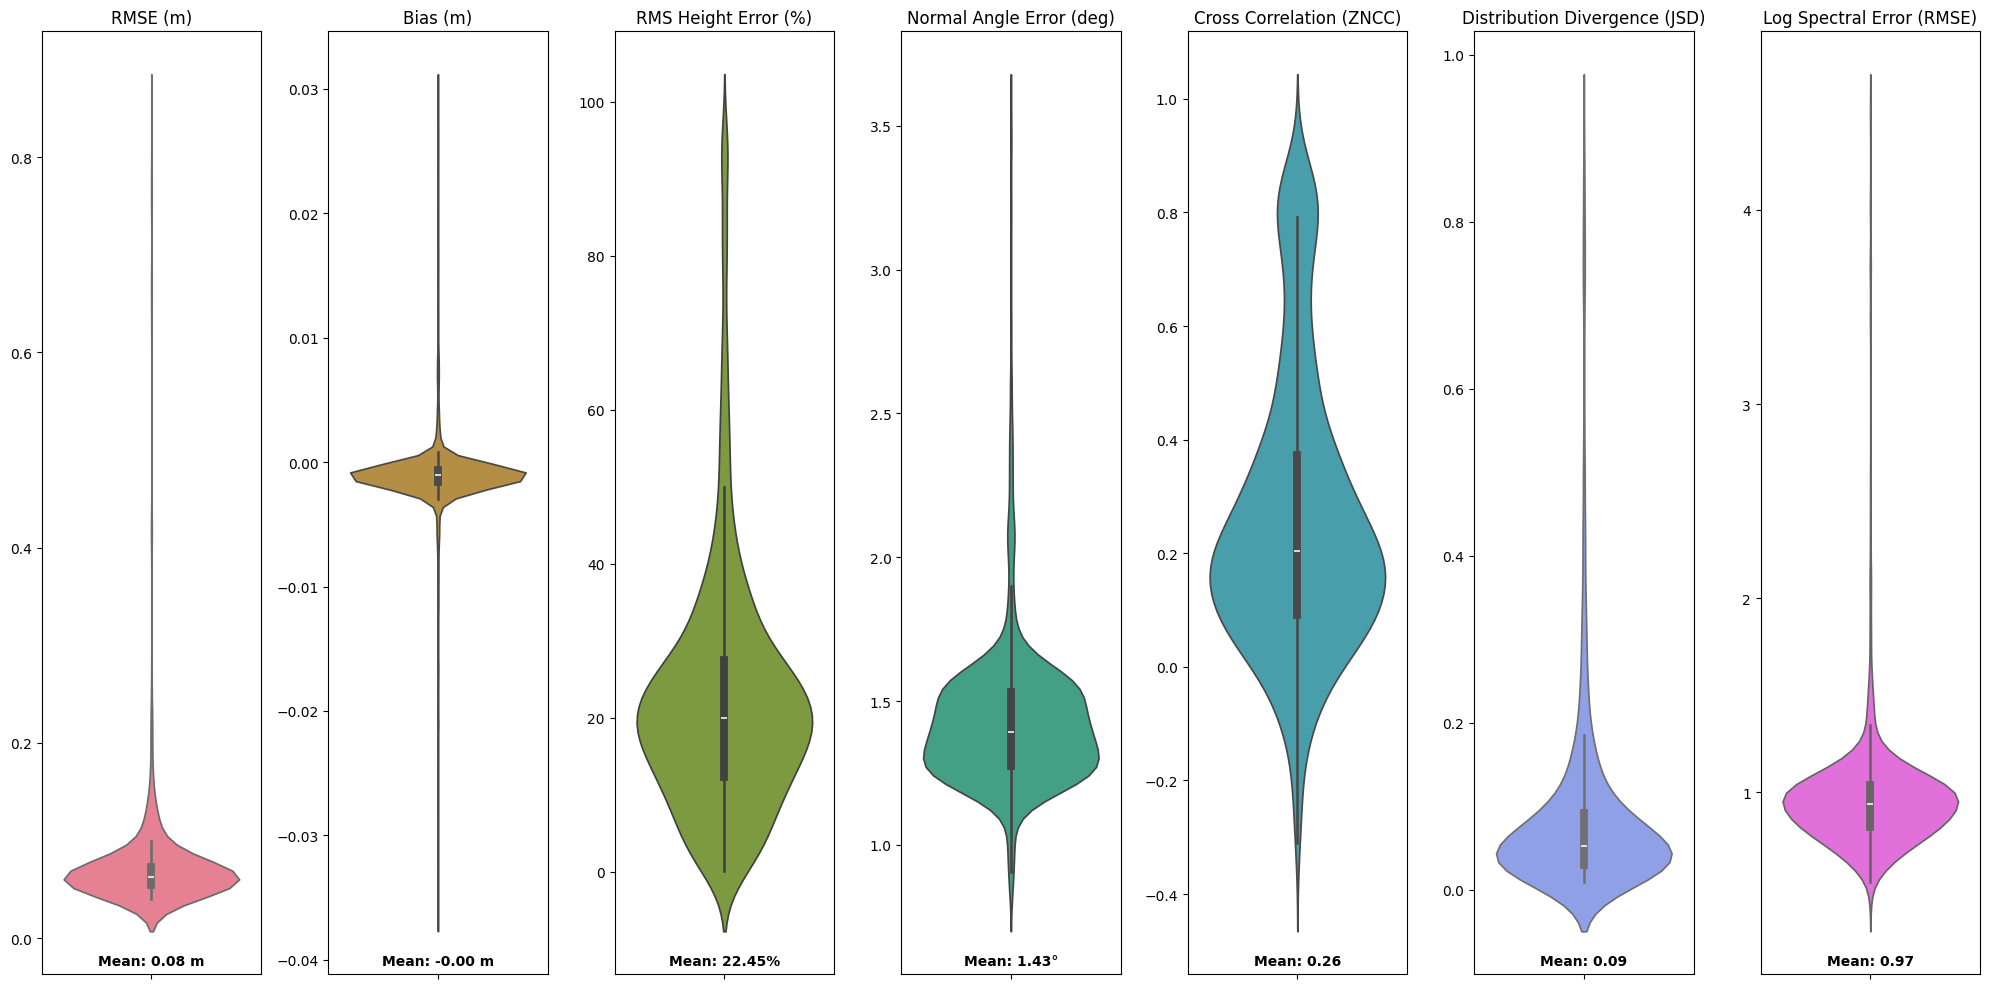
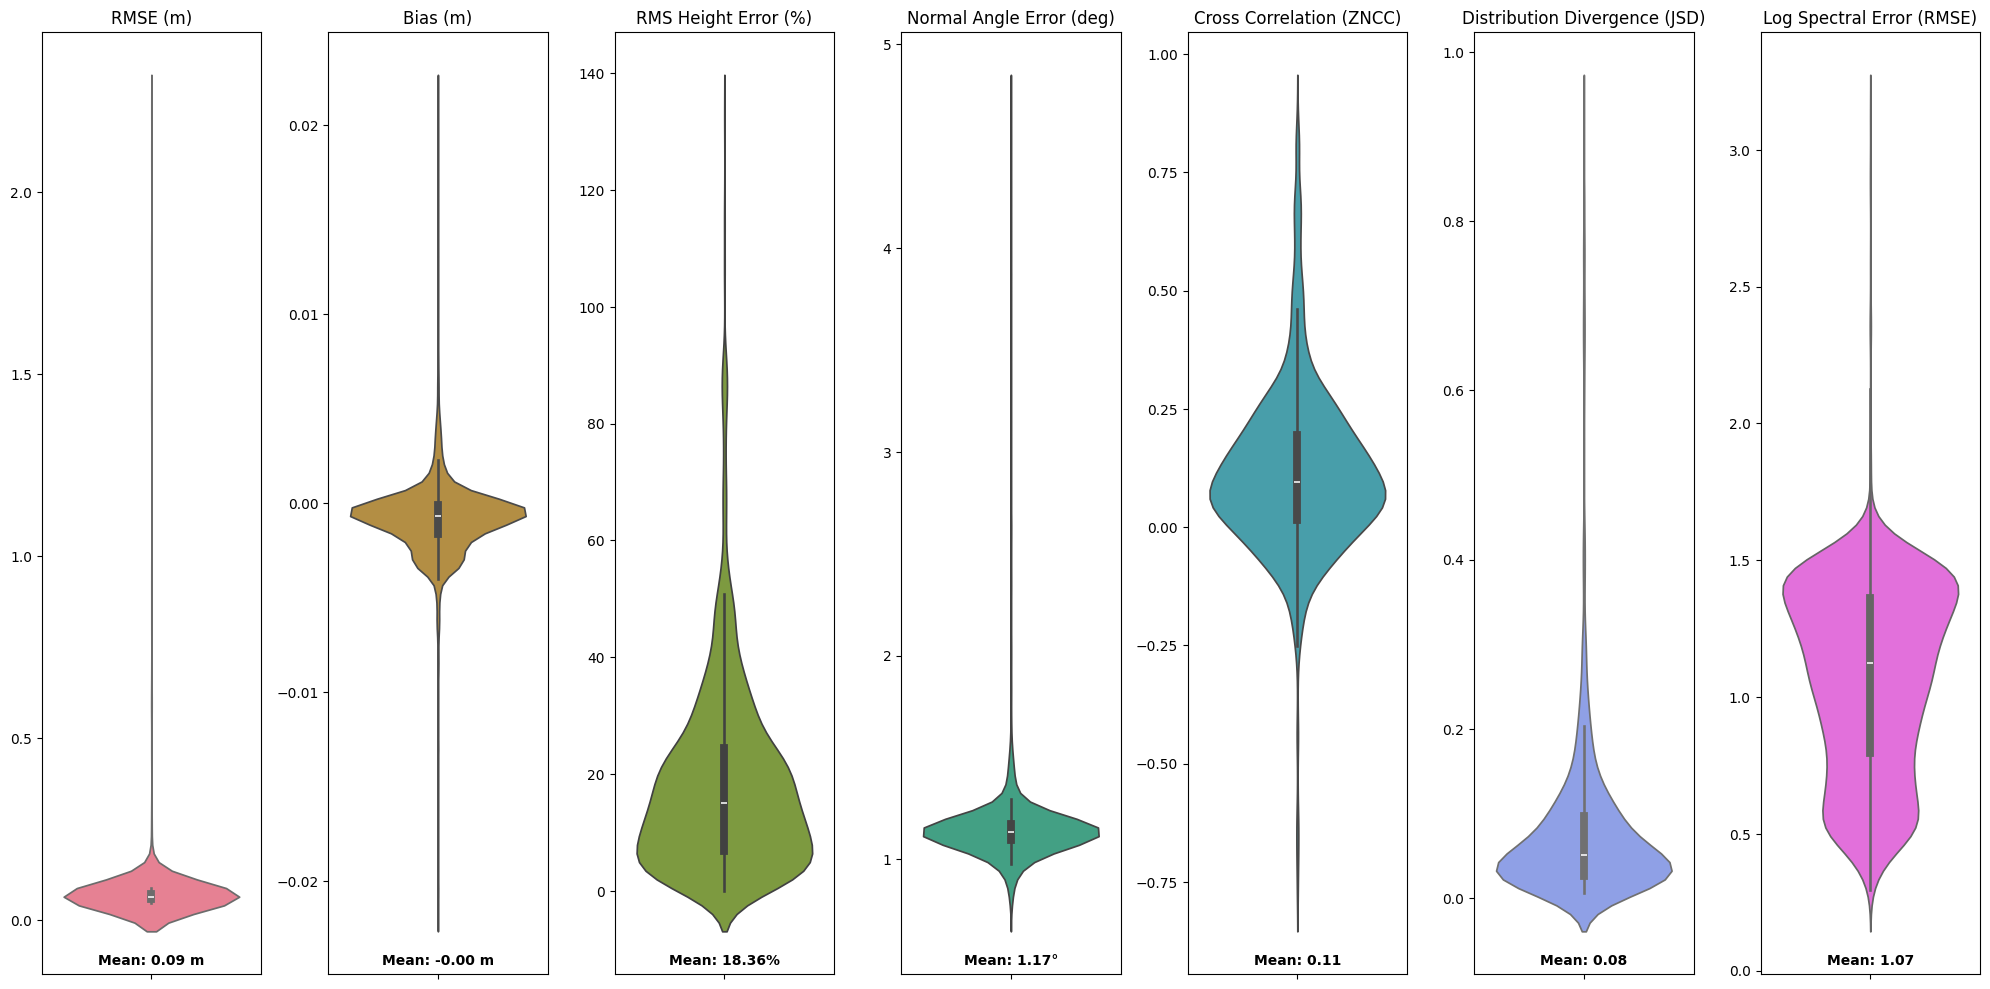
Updated figures (using local demeaning)

diff --git a/scripts/evaluation.py b/scripts/evaluation.py
@@ -10,9 +10,11 @@ from rasterio.warp import reproject
 from tqdm import tqdm
 import yaml
 import matplotlib.pyplot as plt
+import matplotlib.colors as mcolors
 import warnings
 from rasterio.shutil import delete as rio_delete
 from scipy.ndimage import gaussian_filter1d
+from matplotlib.ticker import FormatStrFormatter
 
 PROJECT_ROOT = os.path.abspath(os.path.join(os.path.dirname(__file__), ".."))
 if PROJECT_ROOT not in sys.path:
@@ -59,7 +61,7 @@ def get_region_preset(region_name: str, model_type: str = "cosine"):
         pretty_name = "Pond Inlet"
         zone_ids = [4]
     elif key == "tuk":
-        pretty_name = "Tuktokaktuk"
+        pretty_name = "Tuktoyaktuk"
         zone_ids = [13]
     else:
         pretty_name = "Cambridge Bay"
@@ -359,7 +361,8 @@ def _apply_pred_cleanup(a):
 
 def build_demeaned_mosaics(pred_tiles_dir, gt_tiles_dir, out_dir):
     """
-    Build de-meaned mosaics where each tile is shifted by its GT mean.
+    Build local-reference demeaned mosaics where each GT/pred tile pair is shifted
+    by the ground-truth tile mean.
     Uses a fixed symmetric color scale (-0.5m to +0.5m) with RdBu_r colormap
     for better visualization of surface roughness (after professor's method).
     
@@ -564,10 +567,10 @@ def _rotate_and_crop(arr, angle, mask=None):
 
 def plot_demeaned_color_relief(gt_dm_array, pred_dm_array, diff_dm_array, out_path, vmin=-0.5, vmax=0.5, manual_rotation=None, split_stack=False):
     """
-    Plot demeaned mosaics using fixed symmetric color scale (-0.5 to +0.5m)
-    with RdBu_r colormap (Red=positive/peaks, Blue=negative/depressions, White=zero/mean).
-    
-    This implements the professor's visualization approach for clearer roughness interpretation.
+    Plot residual mosaics using a fixed symmetric color scale and patch-consistent styling.
+
+    Ground truth and prediction are shown in residual space with a shared symmetric
+    log normalization. Error is shown as Pred - GT with a fixed linear scale.
     
     Args:
         gt_dm_array: Demeaned ground truth array
@@ -606,7 +609,22 @@ def plot_demeaned_color_relief(gt_dm_array, pred_dm_array, diff_dm_array, out_pa
         pred_dm_array, _ = _crop_to_valid(pred_dm_array, valid_mask, padding=20)
         diff_dm_array, _ = _crop_to_valid(diff_dm_array, valid_mask, padding=20)
     
-    print(f"  Visualizing demeaned mosaics with fixed scale: {vmin:.2f}m to {vmax:.2f}m (RdBu_r)")
+    # Use symmetric log normalization so values near zero are visually emphasized.
+    dm_abs = float(max(abs(vmin), abs(vmax), 1e-6))
+    dm_vmin, dm_vmax = -dm_abs, dm_abs
+    linthresh_dm = 0.1
+    dm_norm = mcolors.SymLogNorm(
+        linthresh=linthresh_dm,
+        linscale=1.0,
+        vmin=dm_vmin,
+        vmax=dm_vmax,
+    )
+    dm_cmap = "RdBu_r"
+
+    print(
+        f"  Visualizing demeaned mosaics with symlog scale: "
+        f"{dm_vmin:.2f}m to {dm_vmax:.2f}m (linthresh={linthresh_dm:.4f})"
+    )
     
     # Compute aspect ratio
     h, w = gt_dm_array.shape
@@ -635,20 +653,24 @@ def plot_demeaned_color_relief(gt_dm_array, pred_dm_array, diff_dm_array, out_pa
                       hspace=0.02)
         
         groups = [
-            ("Ground Truth (De-meaned)", gt_left, gt_right, "RdBu_r", vmin, vmax, "Residual (m)", 0),
-            ("Prediction (De-meaned)", pred_left, pred_right, "RdBu_r", vmin, vmax, "Residual (m)", 4),
-            ("Error (Pred - GT)", diff_left, diff_right, "seismic", -0.3, +0.3, "Error (m)", 8),
+            ("Ground Truth", gt_left, gt_right, dm_cmap, "Elevation (m)", 0, True),
+            ("Predicted", pred_left, pred_right, dm_cmap, "Elevation (m)", 4, True),
+            ("Error (Pred - GT)", diff_left, diff_right, "seismic", "Error (m)", 8, False),
         ]
-        
-        for title, left_data, right_data, cmap, v0, v1, label, row_start in groups:
+
+        for title, left_data, right_data, cmap, label, row_start, use_symlog in groups:
             ax_top = fig.add_subplot(gs[row_start])
             ax_bot = fig.add_subplot(gs[row_start + 1])
             cax = fig.add_subplot(gs[row_start + 2])
-            
+
             ax_top.set_title(title, fontsize=12, fontweight='bold', pad=10)
-            
-            im_top = ax_top.imshow(left_data, cmap=cmap, vmin=v0, vmax=v1, aspect='equal')
-            im_bot = ax_bot.imshow(right_data, cmap=cmap, vmin=v0, vmax=v1, aspect='equal')
+
+            if use_symlog:
+                im_top = ax_top.imshow(left_data, cmap=cmap, norm=dm_norm, aspect='equal')
+                im_bot = ax_bot.imshow(right_data, cmap=cmap, norm=dm_norm, aspect='equal')
+            else:
+                im_top = ax_top.imshow(left_data, cmap=cmap, vmin=-dm_abs, vmax=dm_abs, aspect='equal')
+                im_bot = ax_bot.imshow(right_data, cmap=cmap, vmin=-dm_abs, vmax=dm_abs, aspect='equal')
             
             ax_top.axis("off")
             ax_bot.axis("off")
@@ -656,6 +678,15 @@ def plot_demeaned_color_relief(gt_dm_array, pred_dm_array, diff_dm_array, out_pa
             cbar = fig.colorbar(im_top, cax=cax, orientation="horizontal")
             cbar.set_label(label, fontsize=10)
             cbar.ax.tick_params(labelsize=8)
+
+            if use_symlog:
+                cbar.set_ticks([-dm_abs, -0.1, -0.01, 0.0, 0.01, 0.1, dm_abs])
+                cbar.formatter = FormatStrFormatter('%.2f')
+            else:
+                cbar.set_ticks([-dm_abs, -0.1, 0.0, 0.1, dm_abs])
+                cbar.formatter = FormatStrFormatter('%.2f')
+
+            cbar.update_ticks()
     else:
         # Standard 3-row layout
         if aspect >= 1:
@@ -667,26 +698,37 @@ def plot_demeaned_color_relief(gt_dm_array, pred_dm_array, diff_dm_array, out_pa
         
         fig, axes = plt.subplots(3, 1, figsize=(fig_width, fig_height))
 
-        im0 = axes[0].imshow(gt_dm_array, cmap="RdBu_r", vmin=vmin, vmax=vmax, aspect='equal')
-        axes[0].set_title("Ground Truth (De-meaned)", fontsize=12, fontweight='bold')
+        im0 = axes[0].imshow(gt_dm_array, cmap=dm_cmap, norm=dm_norm, aspect='equal')
+        axes[0].set_title("Ground Truth", fontsize=12, fontweight='bold')
         axes[0].axis("off")
 
-        im1 = axes[1].imshow(pred_dm_array, cmap="RdBu_r", vmin=vmin, vmax=vmax, aspect='equal')
-        axes[1].set_title("Prediction (De-meaned)", fontsize=12, fontweight='bold')
+        im1 = axes[1].imshow(pred_dm_array, cmap=dm_cmap, norm=dm_norm, aspect='equal')
+        axes[1].set_title("Prediction", fontsize=12, fontweight='bold')
         axes[1].axis("off")
 
-        im2 = axes[2].imshow(diff_dm_array, cmap="seismic", vmin=-0.3, vmax=+0.3, aspect='equal')
+        im2 = axes[2].imshow(diff_dm_array, cmap="seismic", vmin=-dm_abs, vmax=+dm_abs, aspect='equal')
         axes[2].set_title("Error (Pred - GT)", fontsize=12, fontweight='bold')
         axes[2].axis("off")
         
-        for ax, im, label in [(axes[0], im0, "Residual (m)"), 
-                               (axes[1], im1, "Residual (m)"), 
-                               (axes[2], im2, "Error (m)")]:
+        for ax, im, label in [
+            (axes[0], im0, "Elevation (m)"),
+            (axes[1], im1, "Elevation (m)"),
+            (axes[2], im2, "Error (m)")
+        ]:
             divider = make_axes_locatable(ax)
             cax = divider.append_axes("bottom", size="5%", pad=0.1)
             cbar = fig.colorbar(im, cax=cax, orientation="horizontal")
             cbar.set_label(label, fontsize=10)
             cbar.ax.tick_params(labelsize=8)
+
+            if label == "Elevation (m)":
+                cbar.set_ticks([-dm_abs, -0.1, -0.01, 0.0, 0.01, 0.1, dm_abs])
+                cbar.formatter = FormatStrFormatter('%.2f')
+            else:
+                cbar.set_ticks([-dm_abs, -0.1, 0.0, 0.1, dm_abs])
+                cbar.formatter = FormatStrFormatter('%.2f')
+
+            cbar.update_ticks()
 
     if not split_stack:
         plt.tight_layout()
@@ -789,8 +831,8 @@ def plot_2d_maps(gt_array, pred_array, diff_array, out_path, auto_orient=True, m
                       hspace=0.02)
         
         groups = [
-            ("Ground Truth", gt_left, gt_right, "terrain", vmin, vmax, "LiDAR Residual (m)", 0),
-            ("Prediction", pred_left, pred_right, "terrain", vmin, vmax, "LiDAR Residual (m)", 4),
+            ("Ground Truth", gt_left, gt_right, "terrain", vmin, vmax, "Elevation (m)", 0),
+            ("Prediction", pred_left, pred_right, "terrain", vmin, vmax, "Elevation (m)", 4),
             ("Error (Pred - GT)", diff_left, diff_right, "seismic", -A, +A, "Error (m)", 8),
         ]
         
@@ -836,8 +878,8 @@ def plot_2d_maps(gt_array, pred_array, diff_array, out_path, auto_orient=True, m
         axes[2].set_title("Error (Pred - GT)", fontsize=12, fontweight='bold')
         axes[2].axis("off")
         
-        for ax, im, label in [(axes[0], im0, "LiDAR Residual (m)"), 
-                               (axes[1], im1, "LiDAR Residual (m)"), 
+        for ax, im, label in [(axes[0], im0, "Elevation (m)"), 
+                               (axes[1], im1, "Elevation (m)"), 
                                (axes[2], im2, "Error (m)")]:
             divider = make_axes_locatable(ax)
             cax = divider.append_axes("bottom", size="5%", pad=0.1)
@@ -1121,7 +1163,7 @@ def plot_region_pdfs(gt_array, pred_array, out_path,
     ymin, ymax = ax.get_ylim()
     ax.set_ylim([ymin, ymax * 1.15])
     
-    ax.set_xlabel("LiDAR Residual (m)")
+    ax.set_xlabel("Elevation (m)")
     ax.set_ylabel("Probability density")
     if title:
         ax.set_title(title)
@@ -1272,7 +1314,7 @@ def plot_region_pdfs_demeaned(pred_tiles_dir, gt_tiles_dir, out_path,
     ymin, ymax = ax.get_ylim()
     ax.set_ylim([ymin, ymax * 1.15])
     
-    ax.set_xlabel("De-meaned Elevation (m)")
+    ax.set_xlabel("Elevation (m)")
     ax.set_ylabel("Probability density")
     if title:
         ax.set_title(title)
@@ -1308,97 +1350,6 @@ def plot_region_pdfs_demeaned(pred_tiles_dir, gt_tiles_dir, out_path,
     }
     with open(out_path.replace(".png", "_meta.json"), "w") as f:
         json.dump(meta, f, indent=2)
-
-
-def subsample(arr, step):
-    return arr[::step, ::step]
-
-
-def shared_vmin_vmax(gt, pr, pct_low=1, pct_high=99, symmetric=False):
-    v = np.concatenate([gt[np.isfinite(gt)], pr[np.isfinite(pr)]])
-    if v.size == 0:
-        return (-1.0, 1.0)
-    if symmetric:
-        A = float(np.percentile(np.abs(v), pct_high))
-        A = max(A, 1e-6)
-        return (-A, +A)
-    vmin = float(np.percentile(v, pct_low))
-    vmax = float(np.percentile(v, pct_high))
-    if not np.isfinite(vmin) or not np.isfinite(vmax) or vmin >= vmax:
-        vmin = float(np.nanmin(v))
-        vmax = float(np.nanmax(v))
-    return (vmin, vmax)
-
-
-def plot_single_3d_surface(ax, lidar_array, title="3D",
-                           cmap="terrain", z_label="LiDAR Residual (m)",
-                           vmin=None, vmax=None, zmin=None, zmax=None):
-    Z = lidar_array.astype(np.float32)
-    mask = np.isfinite(Z)
-    Zm = np.ma.array(Z, mask=~mask)
-
-    h, w = Z.shape
-    X, Y = np.meshgrid(np.arange(w), np.arange(h))
-
-    surf = ax.plot_surface(
-        X, Y, Zm,
-        cmap=cmap, alpha=0.9, edgecolor="none",
-        rstride=1, cstride=1, vmin=vmin, vmax=vmax
-    )
-
-    ax.set_xlim(0, w - 1)
-    ax.set_ylim(0, h - 1)
-
-    if (zmin is not None) and (zmax is not None):
-        ax.set_zlim(zmin, zmax)
-
-    ax.set_zlabel(z_label)
-    ax.set_title(title)
-    ax.view_init(elev=15, azim=70)
-    return surf
-
-
-def plot_all_three_3d_surfaces(gt_array, pred_array, diff_array,
-                               step=4, out_path=None, plot_title="Combined 3D Plots"):
-    gt_s = subsample(gt_array, step)
-    pr_s = subsample(pred_array, step)
-    diff_s = subsample(diff_array, step)
-
-    vmin_gp, vmax_gp = shared_vmin_vmax(gt_s, pr_s, pct_low=1, pct_high=99, symmetric=False)
-    zmin_gp, zmax_gp = vmin_gp, vmax_gp
-
-    fig = plt.figure(figsize=(24, 8))
-    fig.suptitle(plot_title, fontsize=16)
-
-    ax1 = fig.add_subplot(1, 3, 1, projection="3d")
-    s1 = plot_single_3d_surface(ax1, gt_s, "Ground Truth",
-                                cmap="terrain", z_label="LiDAR Residual (m)",
-                                vmin=vmin_gp, vmax=vmax_gp, zmin=zmin_gp, zmax=zmax_gp)
-    fig.colorbar(s1, ax=ax1, shrink=0.5, aspect=10, label="m")
-    ax1.set_ylabel("Pixel Y (1m)")
-    ax1.set_xlabel("Pixel X (1m)")
-
-    ax2 = fig.add_subplot(1, 3, 2, projection="3d")
-    s2 = plot_single_3d_surface(ax2, pr_s, "Predicted",
-                                cmap="terrain", z_label="LiDAR Residual (m)",
-                                vmin=vmin_gp, vmax=vmax_gp, zmin=zmin_gp, zmax=zmax_gp)
-    fig.colorbar(s2, ax=ax2, shrink=0.5, aspect=10, label="m")
-    ax2.set_ylabel("Pixel Y (1m)")
-    ax2.set_xlabel("Pixel X (1m)")
-
-    ax3 = fig.add_subplot(1, 3, 3, projection="3d")
-    s3 = plot_single_3d_surface(ax3, diff_s, "Error (Pred - GT)",
-                                cmap="RdBu", z_label="Difference (m)")
-    fig.colorbar(s3, ax=ax3, shrink=0.5, aspect=10, label="m")
-    ax3.set_ylabel("Pixel Y (1m)")
-    ax3.set_xlabel("Pixel X (1m)")
-
-    plt.tight_layout(rect=[0, 0.03, 1, 0.95])
-    if out_path:
-        os.makedirs(os.path.dirname(out_path), exist_ok=True)
-        plt.savefig(out_path, bbox_inches="tight", dpi=300)
-        print(f"Saved 3D plots to {out_path}")
-    plt.close(fig)
 
 
 @torch.no_grad()
@@ -1835,7 +1786,7 @@ def main():
             high_pct=99.99,
             smooth_sigma=1.5,
             logy=False,
-            title=f"De-meaned PDFs: GT vs Prediction ({region_name})",
+            title=f"Elevation Distribution: GT vs Prediction ({region_name})",
         )
 
         # De-meaned mosaics (local roughness visualization)
@@ -1863,16 +1814,6 @@ def main():
             vmax_override=args.vmax,
             pct_clip=args.pct_clip,
             split_stack=args.split_stack,
-        )
-
-        three_d_path = os.path.join(out_dir, f"{region_key}_mosaic_3d.png")
-        plot_all_three_3d_surfaces(
-            gt_array=gt_array,
-            pred_array=pred_array,
-            diff_array=diff_array,
-            step=20,
-            out_path=three_d_path,
-            plot_title=f"Predicted 3D Surface for {region_name}",
         )
 
         if not args.skip_stats:
